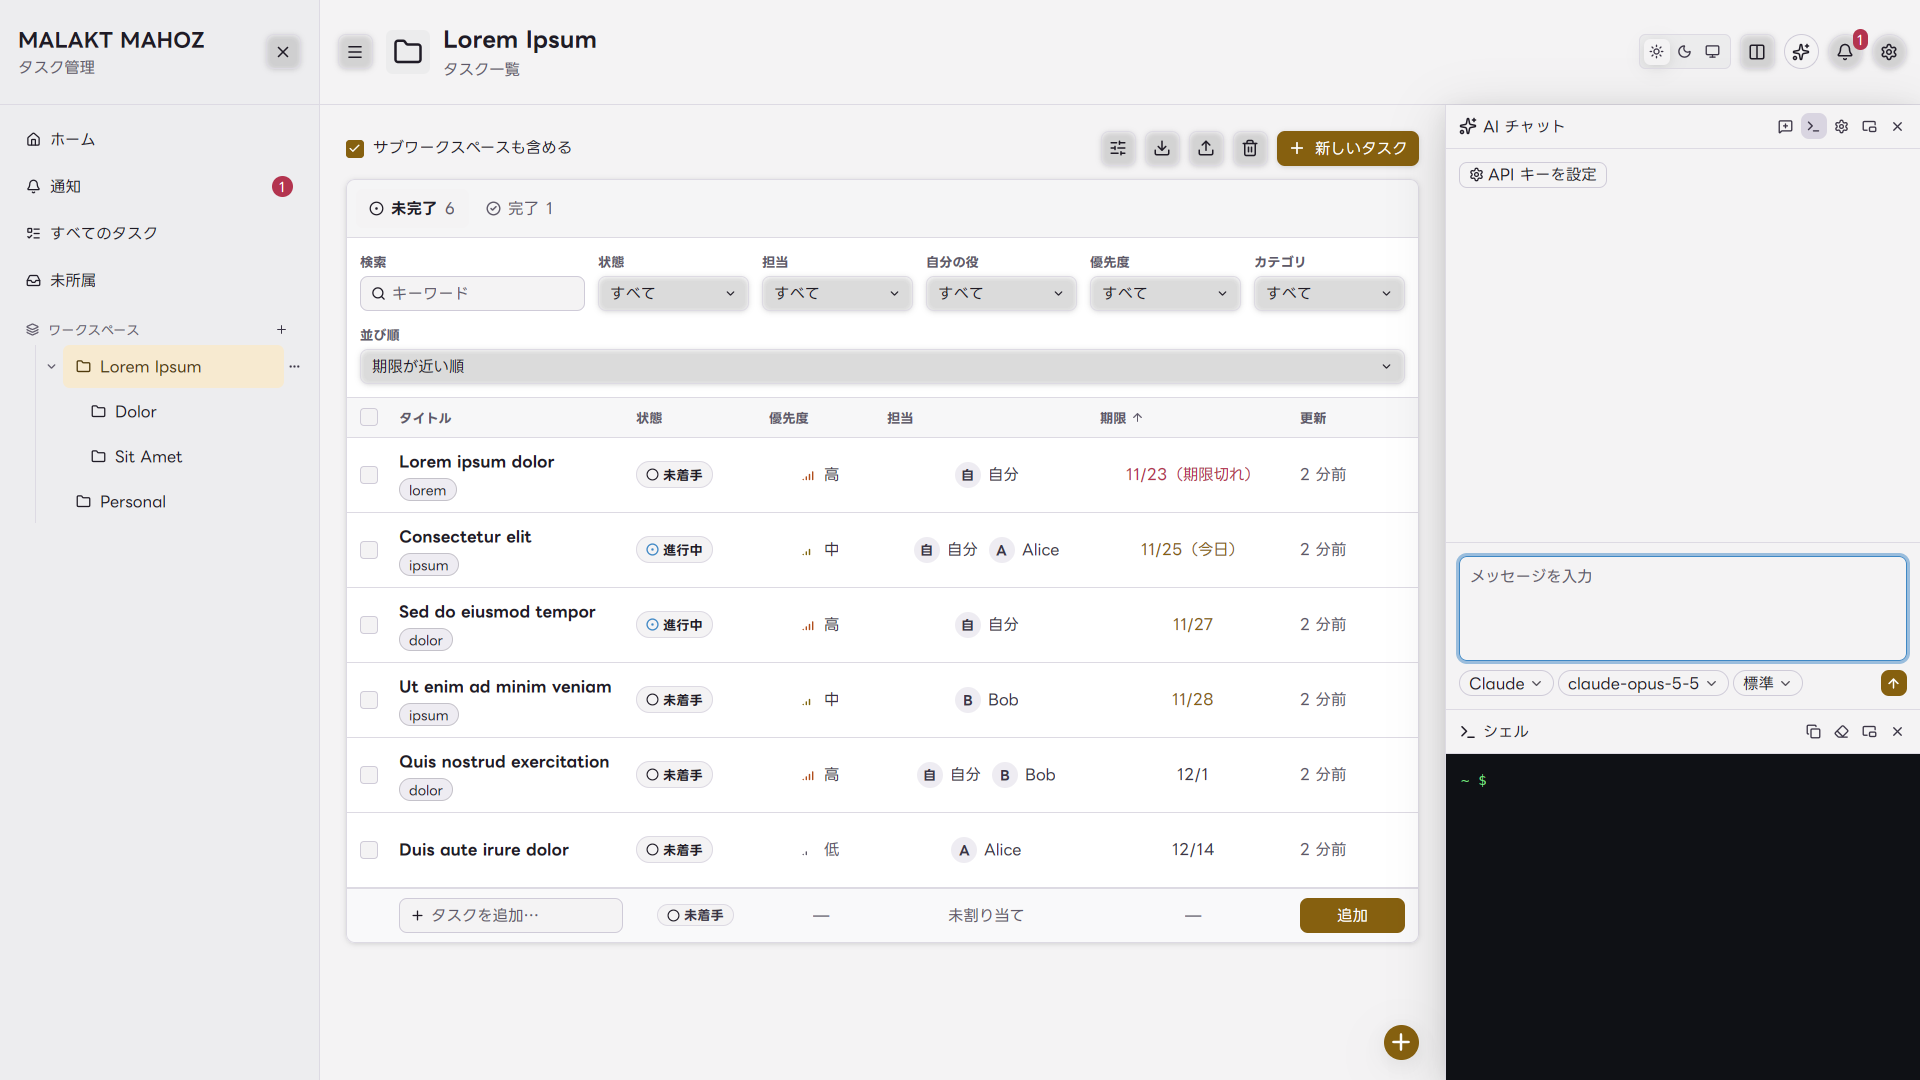
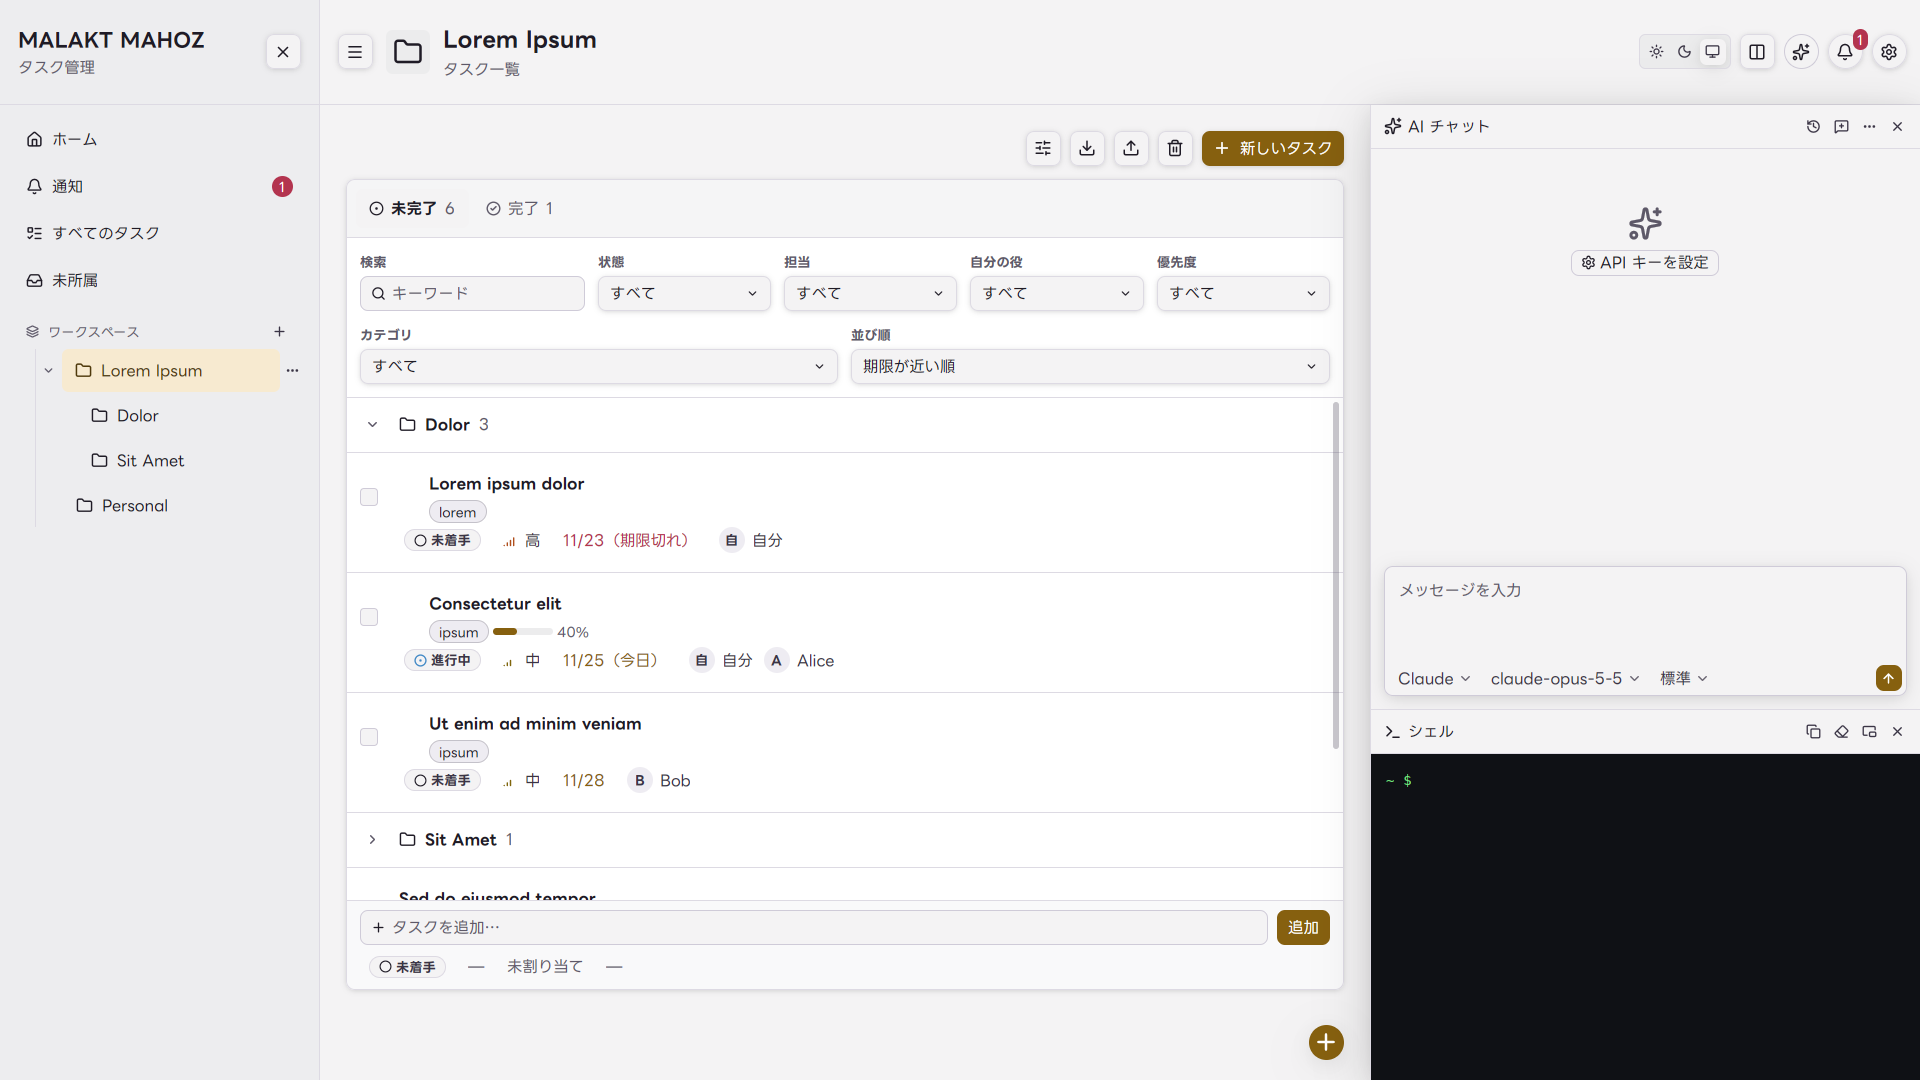
README の画面の画像を撮り直し、テーマの画像を足す (#69)

diff --git a/README.md b/README.md
@@ -13,6 +13,7 @@
 | --- | --- |
 | ![ホーム](docs/images/home.png) | ![タスクの詳細](docs/images/detail.png) |
 | ![ペイン](docs/images/panes.png) | ![AI チャットとシェル](docs/images/ai.png) |
+| ![テーマの見本](docs/images/themes.png) | ![テーマ「ガラスと青い空」](docs/images/theme-sky.png) |
 
 ![ダークモード](docs/images/dark.png)
 
@@ -28,6 +29,7 @@
 - **ホーム**: 期限が 30 日以内のタスクと期限が過ぎたタスク
 - **通知**: 期限が今日のタスクと、ほかの人からの完了報告
 - **ペイン**: 画面を分けて、配置をプリセットとして保存
+- **見た目**: テーマ 10 個、背景の画像、書体、色。自分のテーマを保存
 - **マルチウィンドウ**: `Ctrl/⌘ + N`
 - **ロック**: パスキー（Windows Hello、Touch ID、fprintd）。`Ctrl/⌘ + L`
 - **エクスポート / インポート**: 全データを zip 1 つに書き出し、別の端末で取り込み
